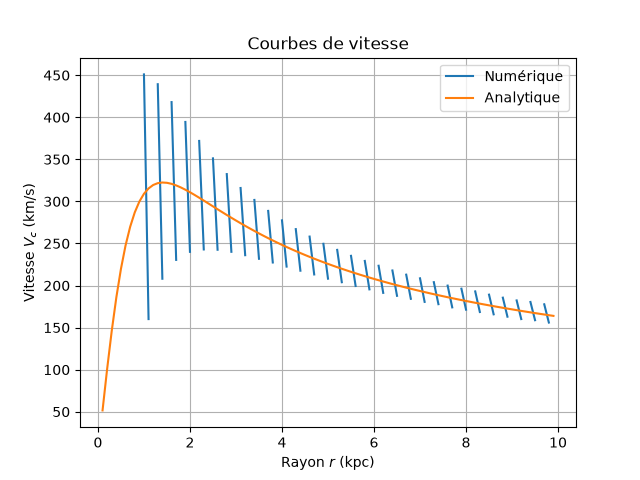
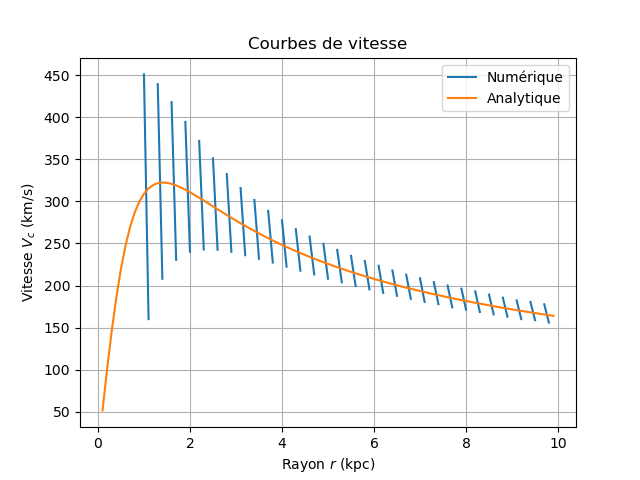
Ajout des codes séparés KT et exp, et correction finale

diff --git a/noyau_exp.c b/noyau_exp.c
@@ -1,0 +1,77 @@
+#include <stdio.h>
+#include <math.h>
+
+/*
+f : fonction à intégrer dans le calcul de K(x)
+*/
+
+float f(float x, float teta){
+    float func,pi = 3.141592653589793;
+    func = (1 - x * cos(teta))/pow((1-2*x*cos(teta)+x*x),1.5);
+    return func;
+
+}
+
+float K(float x){
+    float teta, pi = 3.141592653589793;
+    float a=1e-5, b=pi,alpha=0,beta=0,Isim;
+    int k,n=1000;
+    float h=(b-a)/n;
+
+	for(k=1; k<=n/2; k=k+1){
+		alpha=alpha+f(x,a+(2*k-1)*h);
+	}
+
+	for(k=1; k<=(n/2-1); k=k+1){
+			beta=beta+f(x,a+2*k*h);
+	}
+	
+	Isim=h/3*(f(x,a)+4*alpha +2*beta + f(x,b));
+
+	return 1/pi*Isim;
+}
+
+/*
+g : fonction à intégrer dans le calcul de Meff(r) en prenant ici le modèle exponentiel pour la densité de surface
+*/
+
+float g(float r_prime, float r){
+    float gunc,pi = 3.141592653589793, sigma0=1e10, rc=1, x= r_prime/r;
+    gunc = sigma0*exp(-r_prime/rc)*r_prime*K(x);
+    return gunc;
+}
+
+float Meff(float r){
+    float teta, pi = 3.141592653589793, rc=1;
+    float a=0.001, b=30,alpha=0,beta=0,Isim;
+    int k,n=1000;
+    float h=(b-a)/n;
+
+	for(k=1; k<=n/2; k=k+1){
+		alpha=alpha+g(a+(2*k-1)*h, r);
+	}
+
+	for(k=1; k<=(n/2-1); k=k+1){
+			beta=beta+g(a+2*k*h, r);
+	}
+	
+	Isim=h/3*(g(a, r)+4*alpha +2*beta + g(b, r));
+
+	return 2*pi*Isim;
+}
+
+float v(float r){
+    float G = 4.3e-6 ;
+    return sqrt(G*Meff(r)/r);
+}
+
+int main(){
+
+    FILE *fich2;
+	fich2 = fopen("vitesse_exp.csv","w");
+	float r;
+    for ( r = 0.1; r < 10; r += 0.1){
+        fprintf(fich2, "%f %f \n", r,v(r));
+    }
+    fclose(fich2);
+}

diff --git a/noyau_KT.c b/noyau_KT.c
@@ -1,5 +1,9 @@
 #include <stdio.h>
-#include<math.h>
+#include <math.h>
+
+/*
+f : fonction à intégrer dans le calcul de K(x)
+*/
 
 float f(float x, float teta){
     float func,pi = 3.141592653589793;
@@ -27,9 +31,13 @@ float K(float x){
 	return 1/pi*Isim;
 }
 
+/*
+g : fonction à intégrer dans le calcul de Meff(r) en prenant ici le modèle de Kuzmin-Toore pour la densité de surface
+*/
+
 float g(float r_prime, float r){
-    float gunc,pi = 3.141592653589793, sigma=1e10, rc=1, x= r_prime/r;
-    gunc = sigma/pow(1+(r_prime/rc)*(r_prime/rc),1.5)*r_prime*K(x);
+    float gunc,pi = 3.141592653589793, sigma0=1e10, rc=1, x= r_prime/r;
+    gunc = sigma0/pow(1+(r_prime/rc)*(r_prime/rc),1.5)*r_prime*K(x);
     return gunc;
 }
 
@@ -57,6 +65,10 @@ float v(float r){
     return sqrt(G*Meff(r)/r);
 }
 
+/*
+Solution analytique - disque de Kuzmin-Toomre
+*/
+
 float vkt_exact(float r){
     float G = 4.3e-6, rc=1, pi=3.141592653589793, sigma=1e10;
     float Mtot=2*pi*sigma*rc*rc;
@@ -75,7 +87,7 @@ int main(){
     fclose(fich);
 
     FILE *fich2;
-	fich2 = fopen("vitesse.csv","w");
+	fich2 = fopen("vitesse_kt.csv","w");
 	float r;
     for ( r = 0.1; r < 10; r += 0.1){
         fprintf(fich2, "%f %f %f\n", r,v(r),vkt_exact(r));

diff --git a/plot_vitesse_noyau.py b/plot_vitesse_noyau.py
@@ -1,21 +1,49 @@
 import numpy as np
 import matplotlib.pyplot as plt
+from scipy.special import i0, i1, k0, k1 
 
-data = np.loadtxt("vitesse.csv")
+rc=1
+sigma=1e10
+G = 4.3e-6
+Mtot=2*np.pi*sigma*rc*rc
 
-r = data[:, 0]
-v = data[:, 1]
-v_exact = data[:, 2]
+
+data_kt = np.loadtxt("vitesse_kt.csv")
+data_exp = np.loadtxt("vitesse_exp.csv")
+
+r_kt = data_kt[:, 0]
+v_kt = data_kt[:, 1]
+v_exact_kt = data_kt[:, 2]
+
+r_exp = data_exp[:, 0]
+v_exp = data_exp[:, 1]
+
+y=r_exp/2*rc
+
+v_exact_exp=np.sqrt((G*Mtot/rc)*2*(y**2)*(i0(y)*k0(y)-i1(y)*k1(y)))
 
 plt.figure()
 
-plt.plot(r, v, label="Numérique",)
-plt.plot(r,v_exact, label="Analytique")
+plt.plot(r_kt, v_kt, label="Numérique",)
+plt.plot(r_kt,v_exact_kt, label="Analytique")
 plt.xlabel("Rayon $r$ (kpc)")
 plt.ylabel("Vitesse $V_c$ (km/s)")
 plt.title("Courbes de vitesse")
 plt.grid()
 plt.legend()
 
-plt.savefig("courbes_vitesse.png")
+plt.savefig("courbes_vitesse_kt.png")
+plt.show()
+
+plt.figure()
+
+plt.plot(r_exp, v_exp, label="Numérique",)
+plt.plot(r_exp,v_exact_exp, label="Analytique")
+plt.xlabel("Rayon $r$ (kpc)")
+plt.ylabel("Vitesse $V_c$ (km/s)")
+plt.title("Courbes de vitesse")
+plt.grid()
+plt.legend()
+
+plt.savefig("courbes_vitesse_exp.png")
 plt.show()
